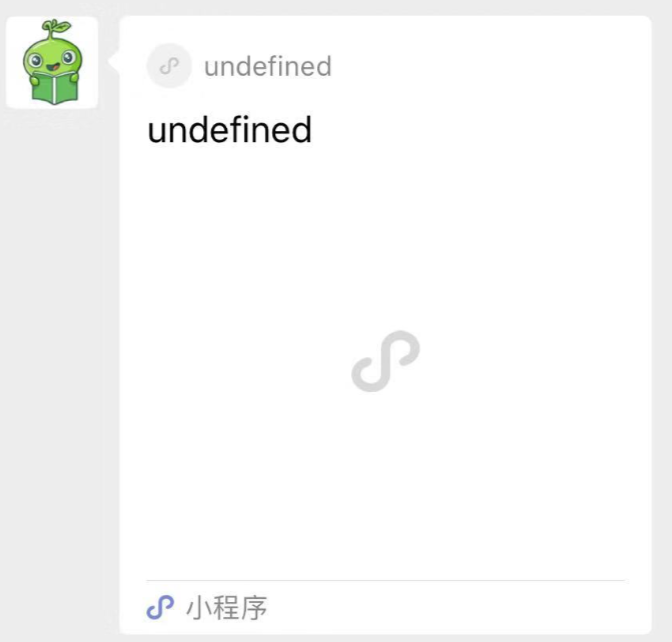
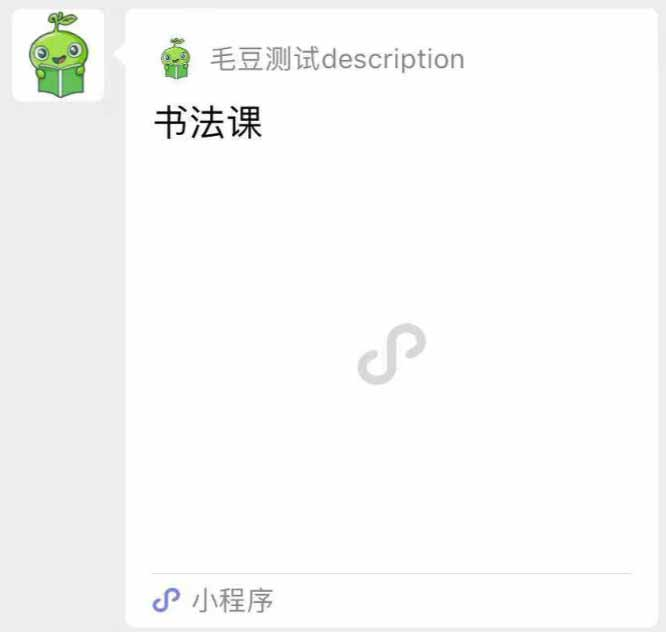
update post (#34)
* 8.16 share, wechaty send miniprogram

* 8.16 share, wechaty send miniprogram

* fit the images

* update post

* update post, update some pics

* update post, update some pics

* update talks and author

diff --git a/docs/_pages/talks.md b/docs/_pages/talks.md
@@ -26,12 +26,12 @@ Talks from our BOT5 members.
 | [S1E3](https://www.bot5.club/events/seminar-minutes-3/) | [孙羽茜](/people/sunyuqian1997), [彭俊](/people/misska1) | [情感化ChatBot的另一种思路](https://www.bot5.club/talks/emotional-chatbot/) |
 | [S1E4](https://www.bot5.club/events/seminar-minutes-4/) | [蔡学镛](/people/jenniferlee520) | [一种灵活的自然语言存储方式](#TBD) |
 | [S1E4](https://www.bot5.club/events/seminar-minutes-4/) | [梁皓然](/people/lhr0909) | [用Snowboy打造自己的树莓派语音助手](https://www.bot5.club/talks/snowboy-demo/) |
+| [S1E5](https://www.bot5.club/events/seminar-minutes-5/) | [赵俊良](/people/zhaoic) | [实现支持微信小程序的聊天机器人](https://www.bot5.club/talks/wechaty-send-miniprogram/) |
 
 ## Queue
 
 | Seminar | Member | Topic |
 | ------- | ------ | ----- |
-| [S?E?](https://bot5.club/events/seminar-minutes-?-?/) | [俊良](https://bot5.club/people/) | [Wechaty Mini Program Support](https://www.bot5.club/talks/TBD) |
 | [S?E?](https://bot5.club/events/seminar-minutes-?-?/) | [李明](https://bot5.club/people/limingth) | [What will happen after Chatbot empowered by Mini Program?](https://www.bot5.club/talks/TBD) |
 | [S?E?](https://bot5.club/events/seminar-minutes-?-?/) | [俊良](https://bot5.club/people/) | [如何用if else 和正则表达式写一个聊天机器人](https://www.bot5.club/talks/TBD) |
 | [S?E?](https://bot5.club/events/seminar-minutes-?-?/) | [邝伟鹏](https://bot5.club/people/github_username) | [Chatbot 场景分享：秒应，家校沟通的工具。](https://www.bot5.club/talks/TBD) |
